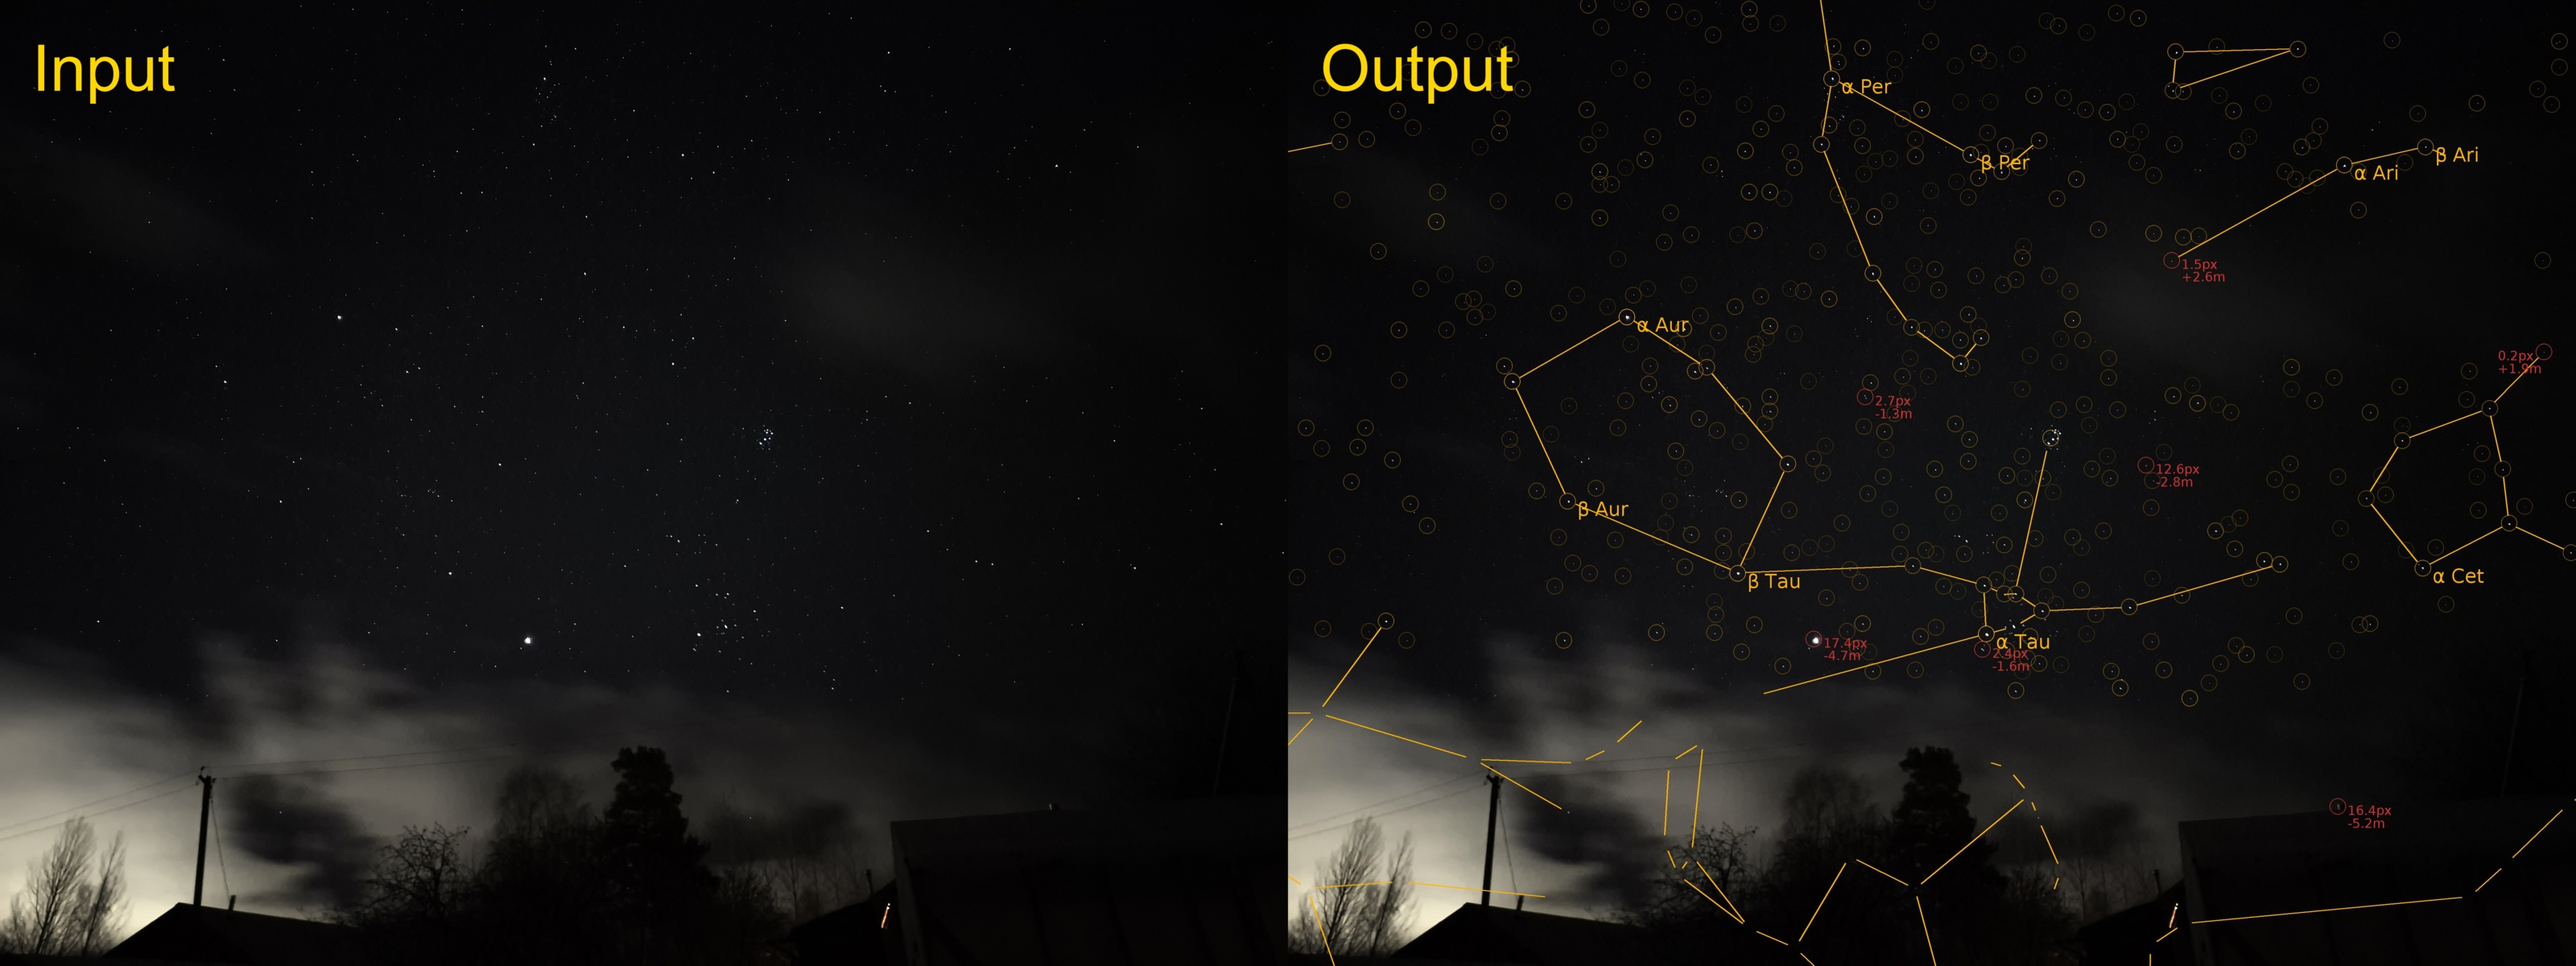
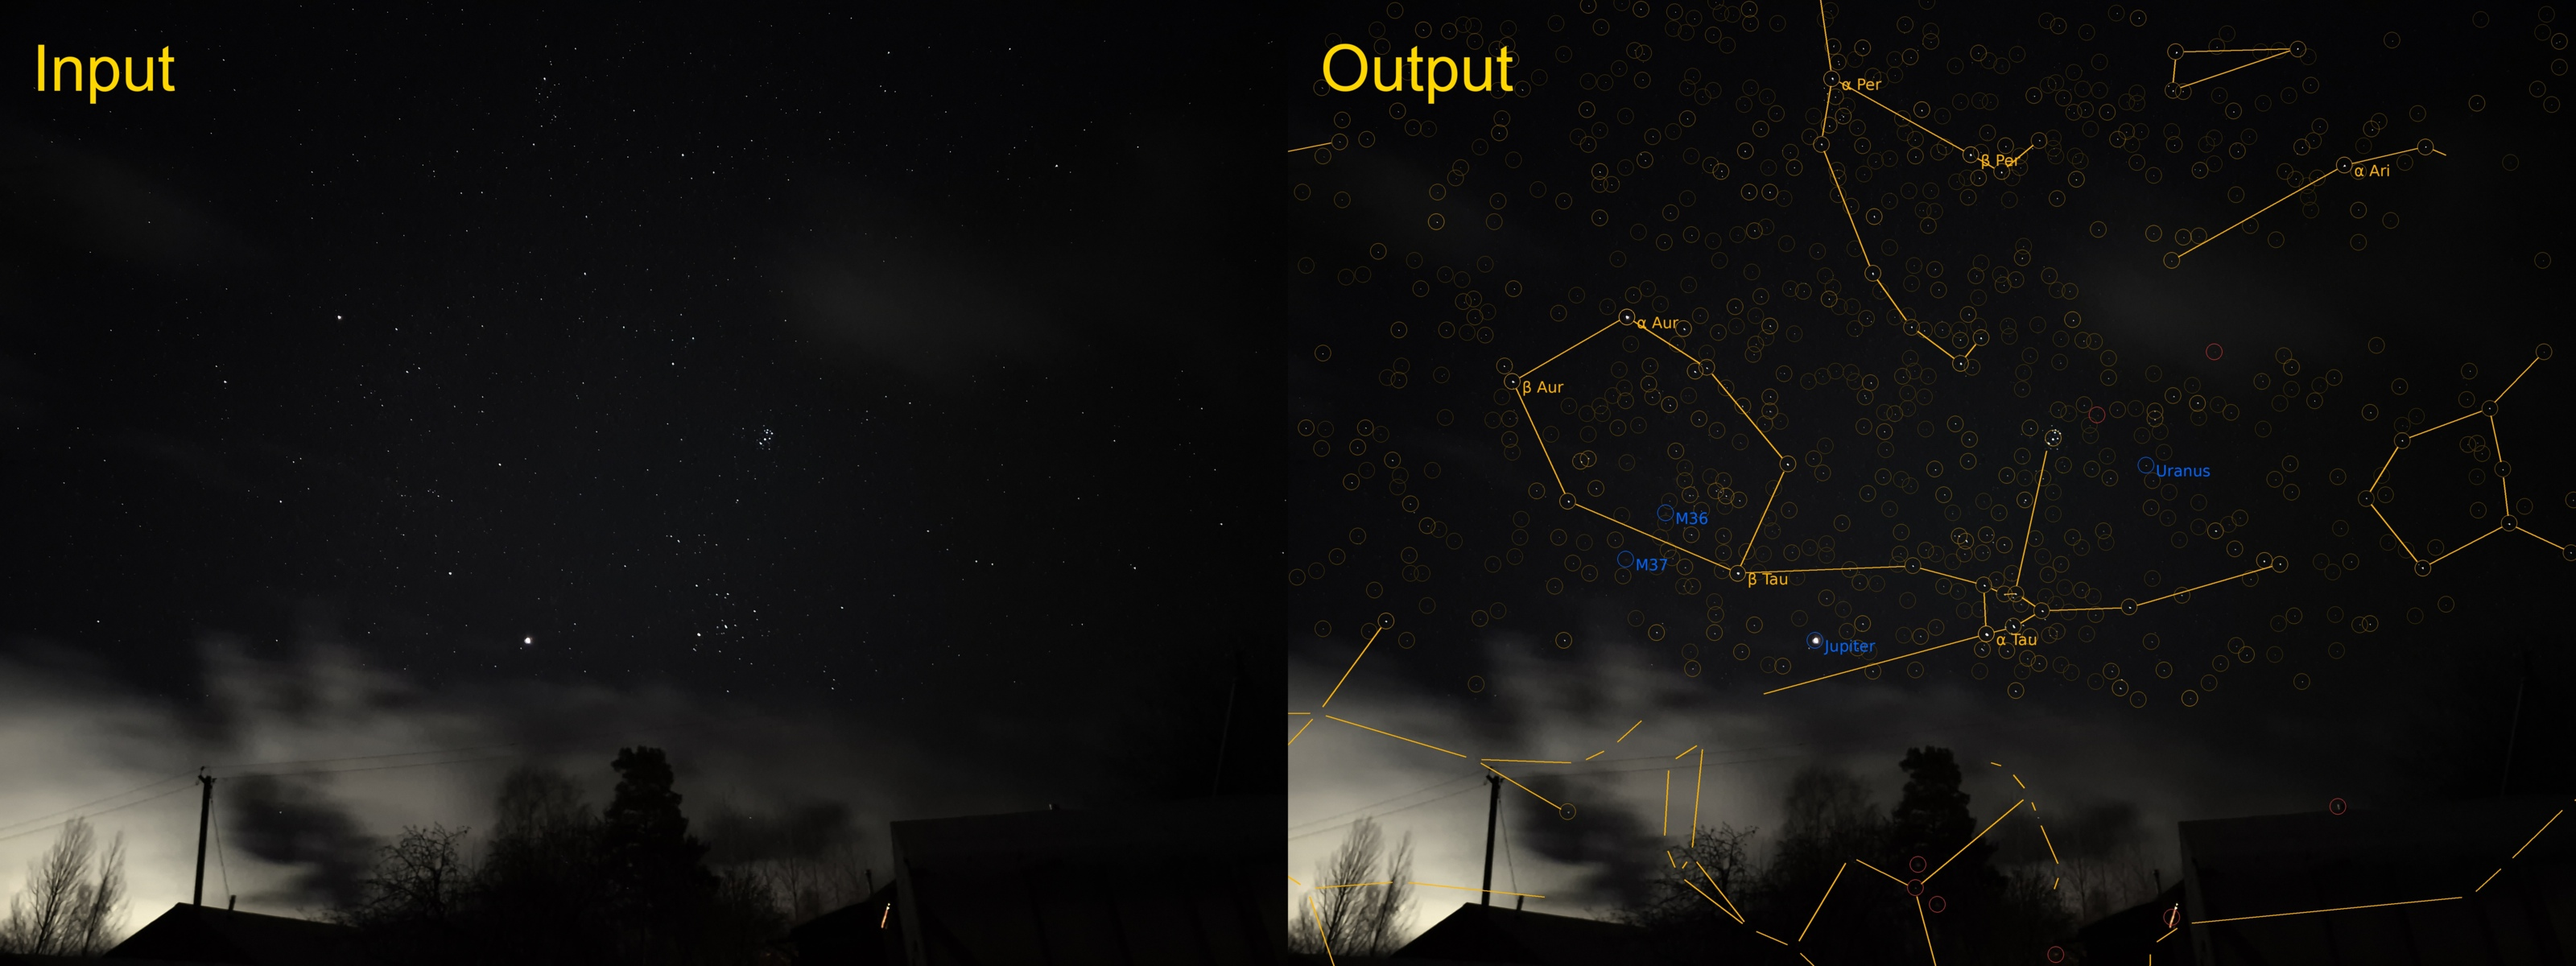
update readme and sample result, cli timestamp fix

diff --git a/starsolver/pipeline.py b/starsolver/pipeline.py
@@ -224,6 +224,9 @@ class Pipeline:
         img = load_image(image_path)
         h, w = img.shape[:2]
 
+        exif_data = self.read_exif(image_path)
+        self.timestamp = exif_data["timestamp"]
+
         if timeout_override == 0:
             timeout = None          # unlimited
         elif timeout_override is not None:
@@ -237,7 +240,7 @@ class Pipeline:
             if self.fov_hint is not None:
                 fov_long = float(self.fov_hint)
             else:
-                fov_long = self.read_exif(image_path).get('fov_estimate')
+                fov_long = exif_data['fov_estimate']
             if fov_long is not None:
                 import numpy as _np
                 f_est        = max(w, h) / (2.0 * _np.tan(_np.radians(fov_long) / 2.0))

diff --git a/README.md b/README.md
@@ -9,11 +9,11 @@ A Python library and a [web app](https://vadim-v-lebedev.github.io/starsolver/) 
 - **Load** — pick your photo from the gallery.
 - **Detect** — runs a custom point source detector.
 - **Mask** — draw a foreground mask to remove false positive detections if necessary.
-- **Solve** — runs tetra3 for blind [plate solving](https://en.wikipedia.org/wiki/Astrometric_solving) and draws the visible constellations.
-- **Refine** — an iterative algorithm that accurately fits the coordinate system and performs rudimentary photometry, aiming to identify every object in the picture (TODO: fix binary stars and planets). After this step, every detected point source is marked either as an identified star (gold circle) or as an unidentified object (red circle).
+- **Solve** — runs tetra3 for blind [plate solving](https://en.wikipedia.org/wiki/Astrometric_solving) and draws the visible constellations. The FOV value, which helps plate solving tremendously, is taken from the image EXIF data. Disable or change it manually if the image was cropped or edited in some similar way.
+- **Refine** — an iterative algorithm that accurately fits the coordinate system and performs rudimentary photometry, aiming to identify every object in the picture. After this step, every detected point source is marked either as an identified star (gold circle), a non-star object (currently, this includes planets and Messier objects), or as an unidentified object (red circle).
 - **Save** — save your results for posterity, closer inspection or sharing.
 
-The web app builds a summary of what was processed in the **Achievements** tab, listing all the constellations that appeared on the photos. This tab also contains the panorama feature: project the processed images into the celestial sphere one-by-one and watch foreground objects stick out in all directions due to Earth's rotation.
+The web app builds a summary of what was processed in the **Achievements** tab, listing all the constellations and planets that appeared on the photos. This tab also contains the panorama feature: project the processed images into the celestial sphere one-by-one and watch foreground objects stick out in all directions due to Earth's rotation.
 
 ## Tech
 
